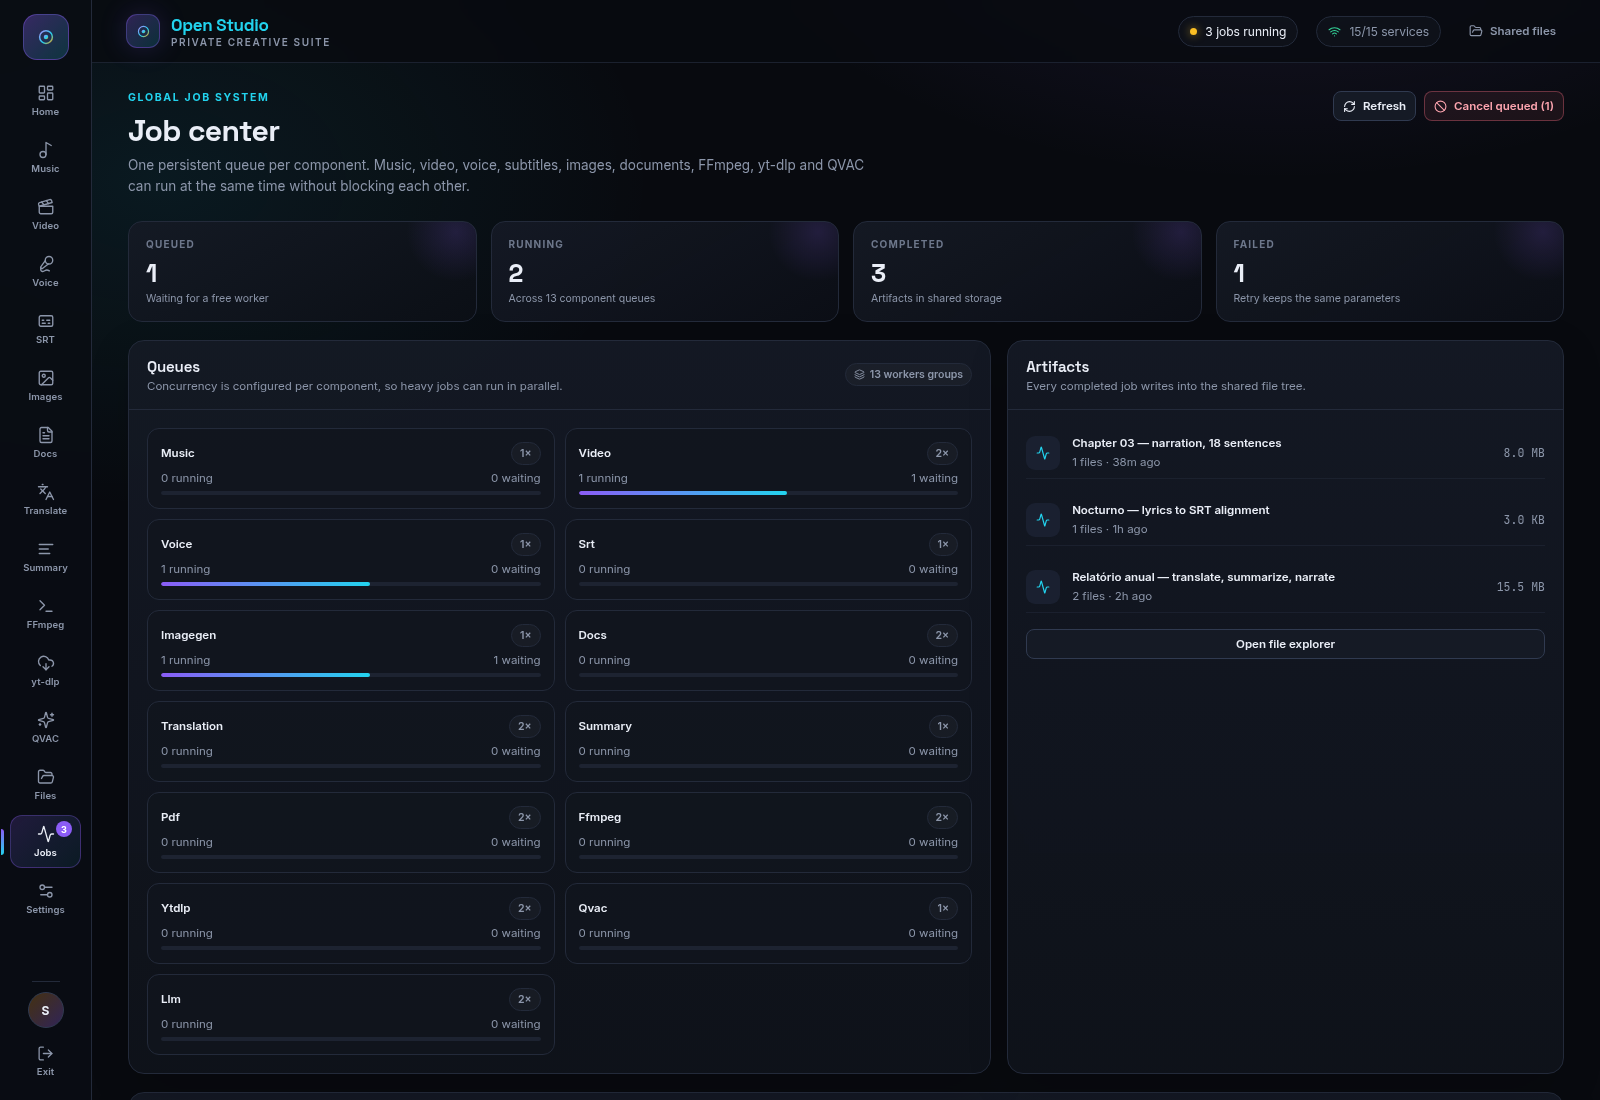
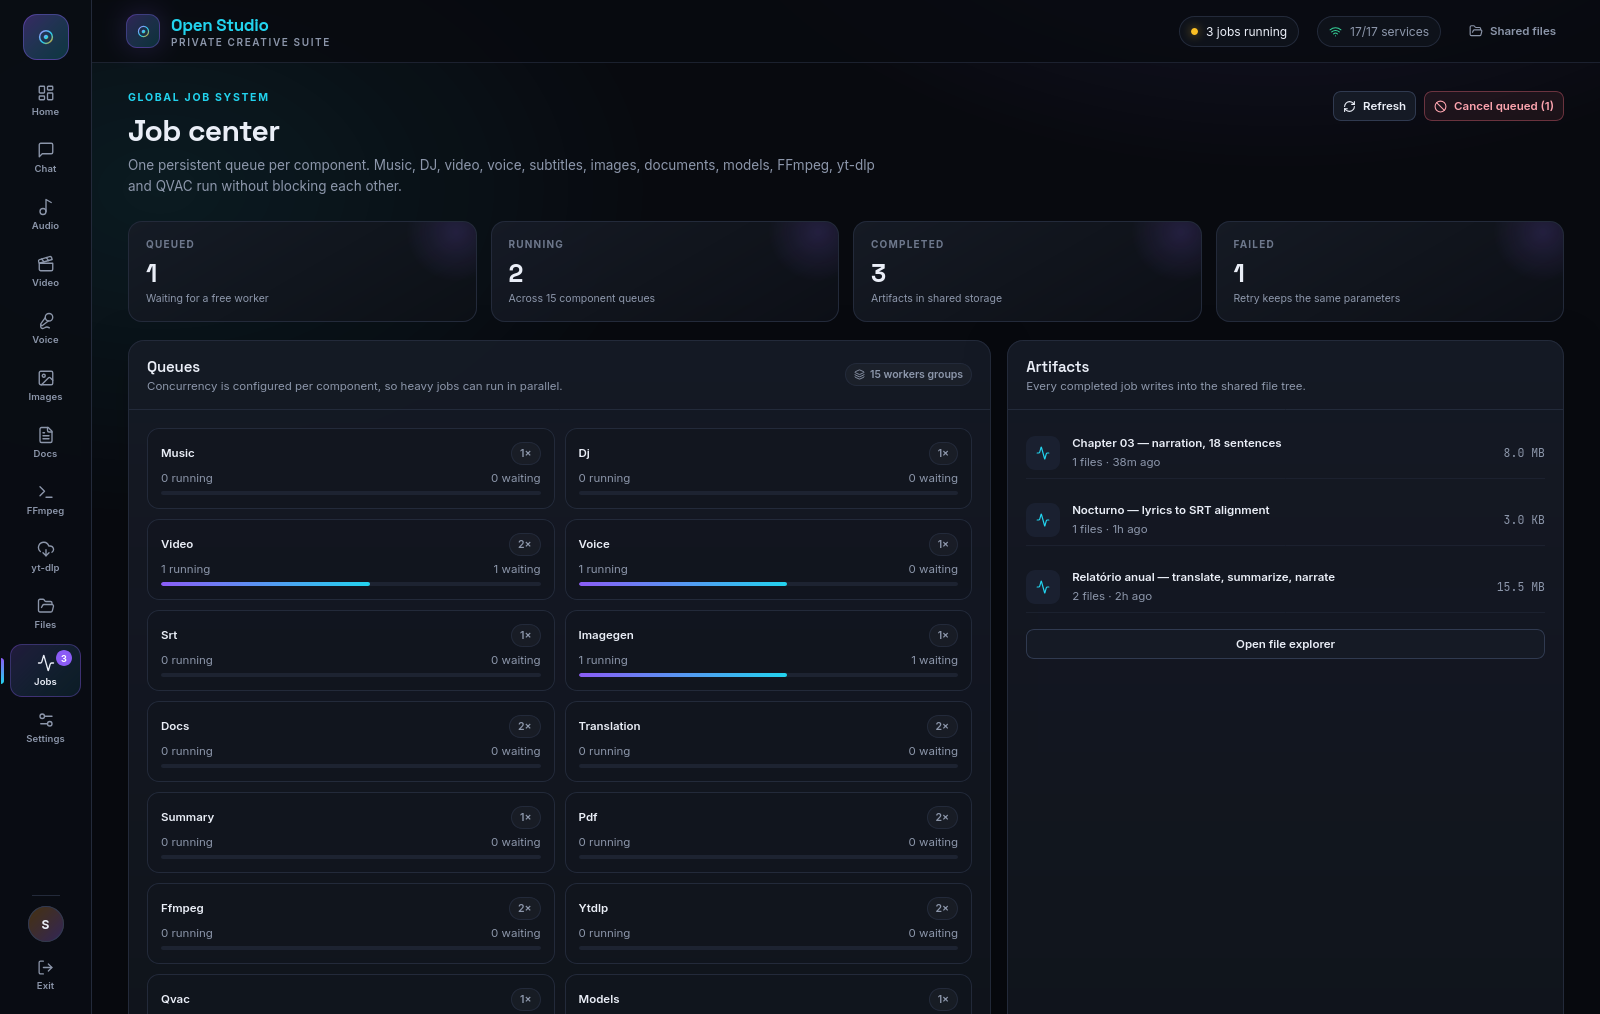
docs: refresh screenshots for the merged studio layout
- Capture every README screenshot from the current demo UI.
- Add the new Chat screenshot and update Audio, SRT, Video and QVAC tabs.
- Update screenshot routes for merged workspaces and the new Chat page.
- Refresh setup, login, dashboard, documents, tools, files, jobs and settings captures.

diff --git a/README.md b/README.md
@@ -97,8 +97,11 @@ used with live services.
 ### Sign in
 ![Sign in](docs/screenshots/login.png)
 
-### Music studio
-![Music studio](docs/screenshots/music.png)
+### AI Chat
+![AI Chat](docs/screenshots/chat.png)
+
+### Audio studio
+![Audio studio](docs/screenshots/music.png)
 
 ### Video studio
 ![Video studio](docs/screenshots/video.png)
@@ -106,8 +109,8 @@ used with live services.
 ### Voice studio
 ![Voice studio](docs/screenshots/voice.png)
 
-### AI subtitles
-![AI subtitles](docs/screenshots/subtitles.png)
+### Audio → SRT
+![Audio SRT](docs/screenshots/subtitles.png)
 
 ### Picture studio
 ![Picture studio](docs/screenshots/images.png)
@@ -127,8 +130,8 @@ used with live services.
 ### yt-dlp
 ![yt-dlp](docs/screenshots/ytdlp.png)
 
-### QVAC video
-![QVAC video](docs/screenshots/qvac.png)
+### Video → QVAC
+![Video QVAC](docs/screenshots/qvac.png)
 
 ### Files
 ![Files](docs/screenshots/files.png)
@@ -465,9 +468,9 @@ Shows service health, active jobs, storage, compute, recent activity and quick l
 
 ---
 
-### Music studio
+### Audio studio
 
-![Music studio](docs/screenshots/music.png)
+![Audio studio](docs/screenshots/music.png)
 
 Music is project → songs → lyrics/takes. Each song owns its brief, structured lyrics, generation settings and takes.
 
@@ -596,9 +599,9 @@ curl -H 'Authorization: Bearer osk_...' -H 'Content-Type: application/json' \
 
 ---
 
-### AI subtitles
+### Audio → SRT
 
-![AI subtitles](docs/screenshots/subtitles.png)
+![Audio → SRT](docs/screenshots/subtitles.png)
 
 The key feature is **mp3 + lyrics → SRT**: Whisper produces word timestamps, then a
 normalised dynamic-programming matcher aligns your lyric lines to the audio.
@@ -821,9 +824,9 @@ Downloaded files appear in **Files** under `ytdlp/<job-id>/` and can be sent str
 
 ---
 
-### QVAC video
+### Video → QVAC
 
-![QVAC video](docs/screenshots/qvac.png)
+![Video → QVAC](docs/screenshots/qvac.png)
 
 QVAC is Tether's local AI SDK. The QVAC service is a Node 22 Docker image with
 `@qvac/sdk`, FFmpeg and Vulkan runtime libraries. The page exposes **all SDK
